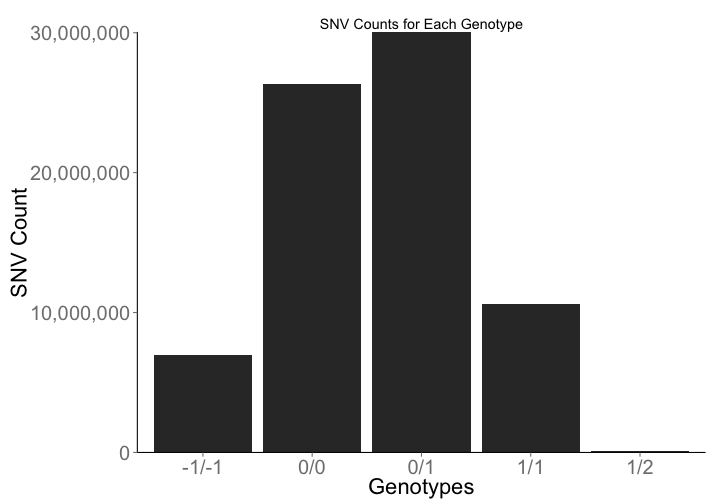
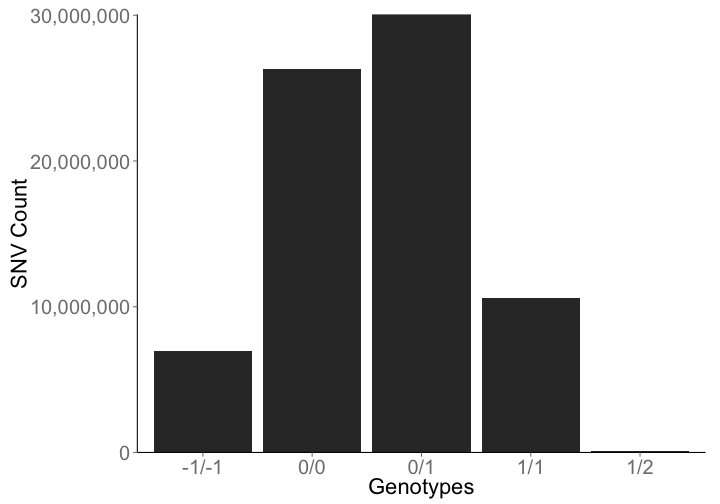
Remove plot title

diff --git a/misc/Biological-Plots.md b/misc/Biological-Plots.md
@@ -68,7 +68,6 @@ ggplot(genotypeCountResult) +
   geom_bar(aes(x=Genotype, y=Cnt), stat="identity") +
   xlab("Genotypes") + 
   ylab("SNV Count") + 
-  ggtitle("SNV Counts for Each Genotype") +
   scale_y_continuous(labels=comma, expand = c(0, 0)) +
   theme(axis.line = element_line(colour = "black"),
         panel.grid.major = element_blank(),
